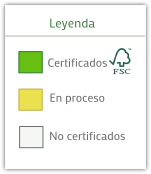
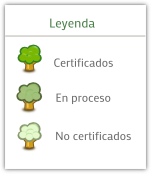
cambio de iconos

diff --git a/templates/index.html b/templates/index.html
@@ -88,8 +88,10 @@
 			<div class="bloque_actor_externo">
 				<div class="bloque_actor_interno">
 					<a href="/consultar"><div class="conteo">{{bosques}}</div>Empresa de manejo de bosque</a>
+					<!--
 					<a href=""><div class="conteo"></div>Empresa forestal de segunda transformación</a>
 					<a href=""><div class="conteo"></div>PYMES Madera Muebles</a>
+					-->
 				</div>
 			</div>
 		</div>
@@ -97,9 +99,11 @@
 			<div class="titulo-bloque"><img src="/files/img/prestadoresicon.png">PRESTADORES DE SERVICIO</div>
 			<div class="bloque_actor_externo">
 				<div class="bloque_actor_interno">
+					<!--
 					<a href=""><div class="conteo"></div>Regentes Forestales</a>
 					<a href=""><div class="conteo"></div>Asistencia Tecnica</a>
 					<a href=""><div class="conteo"></div>PYMES Madera</a>
+					-->
 				</div>
 			</div>
 		</div>
@@ -107,11 +111,13 @@
 			<div class="titulo-bloque"><img src="/files/img/serviciosicon.png">SERVICIOS OPERACIONALES</div>
 			<div class="bloque_actor_externo">
 				<div class="bloque_actor_interno">
+					<!--
 					<a href=""><div class="conteo"></div>Servicios de extracción</a>
 					<a href=""><div class="conteo"></div>Comercializadora</a>
 					<a href=""><div class="conteo"></div>Plantaciones Forestales</a>
 					<a href=""><div class="conteo"></div>Empresas de Insumos</a>
 					<a href=""><div class="conteo"></div>Servicios Financieros</a>
+					-->
 				</div>
 			</div>
 		</div>
@@ -119,8 +125,10 @@
 			<div class="titulo-bloque"><img src="/files/img/reguladoresicon.png">REGULADORES</div>
 			<div class="bloque_actor_externo">
 				<div class="bloque_actor_interno">
+					<!--
 					<a href=""><div class="conteo"></div>Organizaciones Publicas</a>
 					<a href=""><div class="conteo"></div>Auditores Forestales</a>
+					-->
 				</div>
 			</div>
 		</div>

diff --git a/templates/bosques/consultar.html b/templates/bosques/consultar.html
@@ -27,10 +27,11 @@
                         desc: elemento.propiedad,
                         icon: '/files/img/mapicon'+elemento.cert+'.png'                        
                     });
+                    for each (var item in elemento.tipo) alert(item);
                     google.maps.event.addListener(marker, "click", function() {
                         var html = '<b>' + unescape(elemento.propiedad) + 
                                    '</b><br>' + unescape(elemento.nombre) +
-                                   '</b><br>' + unescape(elemento.tipo) + 
+                                   '</b><br>' +  + 
                                    '<br><a href="/ficha/'+unescape(elemento.id)+'" class="btn btn-mini" style="margin-right:5px; float:right;"><i class="icon-zoom-in"></i> Ver mas</a>';
                        infowindow = new google.maps.InfoWindow({
                                     content: html});
@@ -121,10 +122,12 @@ Persona natural o jurídica que tiene dominio y posesión de una superficie de t
             <form action="." method="POST">
               {% csrf_token %}
                 <div class="generalform">
+                    <!-- 
                     <div class="formelement">
                         <div class="labelform">{{form.fecha.label}}</div>
                         <div class="filtros">{{form.fecha}}<br>{{form.fecha.errors}}</div>
                     </div>
+                    -->
                     <div class="formelement">
                         <div class="labelform">{{form.tipo_propiedad.label}}</div>
                         <div class="filtros">{{form.tipo_propiedad}}<br>{{form.tipo_propiedad.errors}}</div>

diff --git a/bosques/views.py b/bosques/views.py
@@ -90,7 +90,7 @@ def obtener_mapa(request):
                             lat=float(objeto.sequimiento.propietario.latitud),
                             propiedad=objeto.sequimiento.propietario.nombre_propiedad,
                             cert=objeto.certificado,
-                            tipo=[a.nombre for a in objeto.tipo_certificacion.all()],
+                            tipo=[a.nombre+'<br>' for a in objeto.tipo_certificacion.all()],
                             )
             lista.append(dicc)
 
